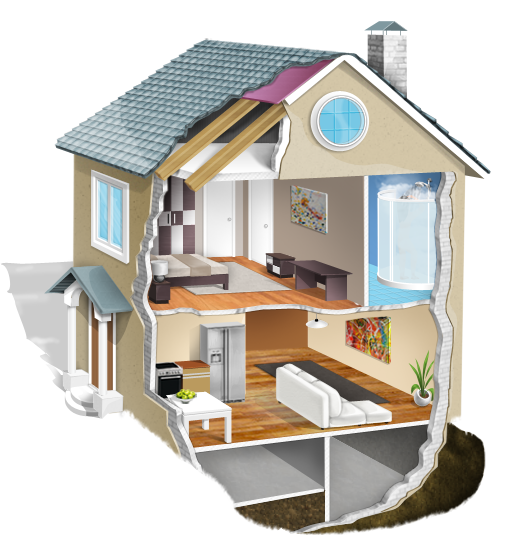
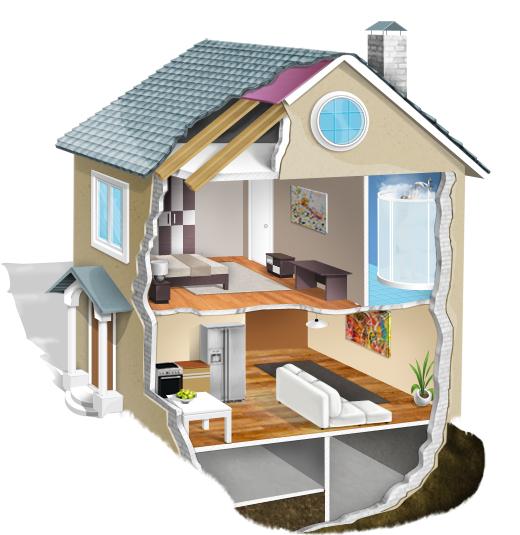
Added the radiators

Changed region(s): [[0.3692, 0.329, 0.4615, 0.4785], [0.6462, 0.5682, 0.7692, 0.6879]]

diff --git a/app/assets/stylesheets/scenes/house/_header.sass b/app/assets/stylesheets/scenes/house/_header.sass
@@ -141,3 +141,14 @@
         background-position: 0 -1792px
       .icon.all
         background-position: 0 -2048px
+
+    .radiator
+      @include house-prop-dyn(radiator, 188px, 191px, 925px, 236px)
+      z-index: 6
+
+      .icon.low
+        background-position: 0 0
+      .icon.medium
+        background-position: 0 -191px
+      .icon.high
+        background-position: 0 -382px
